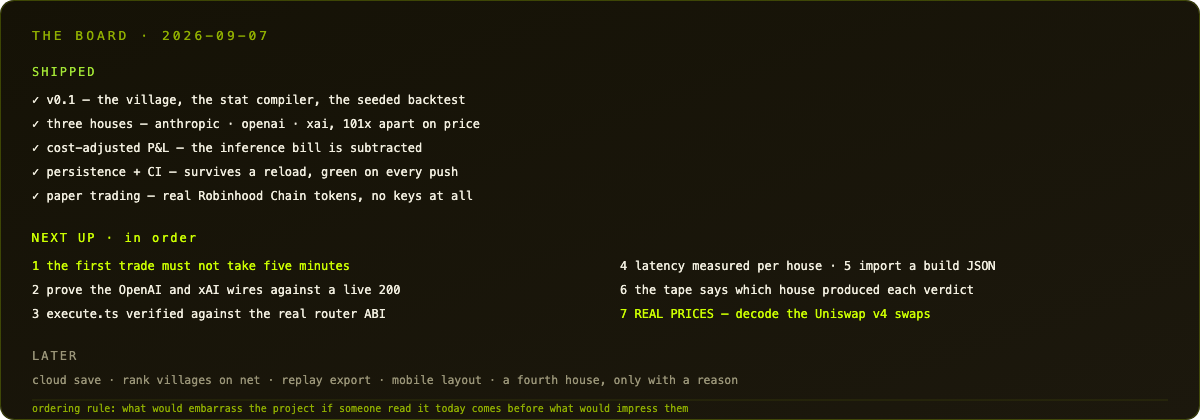
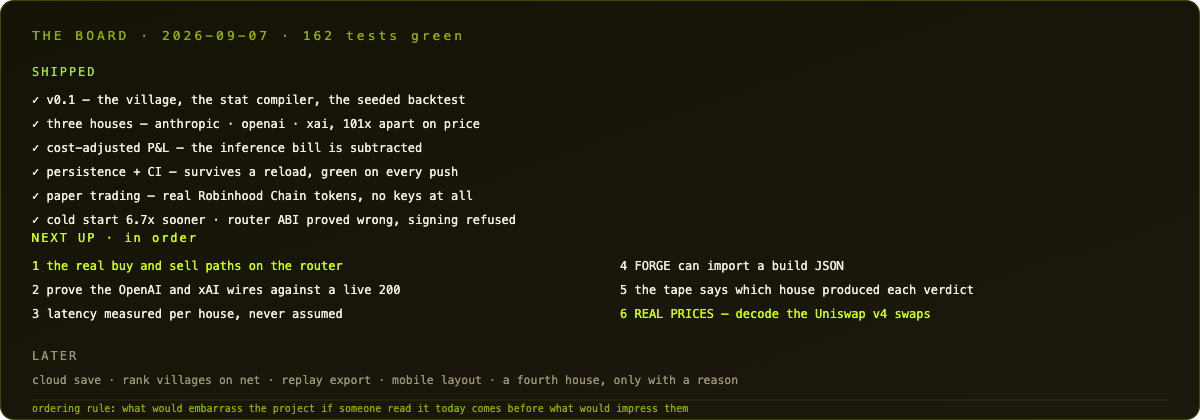
Roadmap: two items shipped, the real buy and sell paths take the top slot
Cold start and the selector gate move to Shipped with their measured numbers
(first decision 497 -> 74, first fill 515 -> 207). Next up is reordered: the
router preflight made execution safe but not working, so locating the real buy
argument order and the sell path is now item 1. Board graphic redrawn.

Claude-Session: https://claude.ai/code/session_01EpaaJaVzAeaf76b6Wv1oqW

diff --git a/ROADMAP.md b/ROADMAP.md
@@ -36,6 +36,38 @@ of tests (156 green), 1,082 lines of spec** — typechecked, tested and built by
 CI on every push. Three modes: seeded sim, **paper on real chain tokens**, and
 live.
 
+### 2026-09-07 · Cold start fixed, and a router ABI that was wrong all along — [`ca97ddd`](https://github.com/zostaff/agent-arena/commit/ca97ddd)
+
+**What changed.** Two roadmap items in one pass: a new agent now trades before
+it trains, and `execute.ts` refuses to sign any call whose selector is not in
+the deployed router's bytecode. 6 new tests.
+
+**For a post**
+
+* **The first trade came 6.7x sooner.** First decision moved from tick 497 to
+  **74**, first fill from 515 to **207** — measured, not estimated. An agent
+  used to start its life owing a training session, so a fresh village spent its
+  opening minutes doing chores while someone watched.
+* **Reading the deployed router found the ABI had been wrong from day one.**
+  `eth_getCode` on `0xe33e…2948` (4,416 bytes) does not contain the selector
+  for `buy(address,uint256,uint256)` — the signature pinned in the code since
+  the first commit. `DRY_RUN=0` would have reverted on the very first trade.
+  Nobody noticed because nothing had ever tried to send.
+* The router's real buy is **`buy(uint256,uint256,address)`** — a different
+  argument order — and no `sell` selector matches any plausible signature,
+  which fits Pons v2 settling through Uniswap v4 rather than through the
+  router.
+* **The fix is a refusal, not a guess.** One `eth_getCode` before signing; a
+  call whose selector cannot dispatch is refused. Guessing at argument order is
+  the single mistake here that costs real money, so a selector *match* does not
+  unlock anything either — the refusal stands until an order is confirmed
+  against a real trade. A miss, though, is proof.
+* `npm run chain` prints the gate in four lines: `pinned buy ABSENT — would
+  revert`, `pinned sell ABSENT`, `observed buy present (argument order
+  unconfirmed)`, `safe to send NO`.
+* **The honest limit:** this makes execution *safe*, not *working*. The real
+  buy path is still unwritten, and the sell path is still unknown.
+
 ### 2026-09-07 · Paper trading on real Robinhood Chain tokens — [`34e6ecc`](https://github.com/zostaff/agent-arena/commit/34e6ecc)
 
 **What changed.** A third mode. `npm run paper`, or the PAPER switch in the
@@ -210,24 +242,19 @@ stat bars on top, the config they compile to underneath.*
 
 ## Next up
 
-### 1. The first trade must not take five minutes
+### 2. The real buy and sell paths
 
-Found while screenshotting paper mode on 2026-09-07: at tick 178 the DEX still
-said *waiting for the first snapshot*. An agent starts in REST, walks to a
-building, and burns **260 ticks of training** before it ever scans. Someone who
-opens the page to watch bots trade sees a village doing chores.
+The selector preflight proved the pinned ABI cannot dispatch and now refuses to
+sign — safe, but not working. `buy(uint256,uint256,address)` exists on the
+router with an unconfirmed argument order, and no `sell` selector was found at
+all.
 
-This is the single worst thing about the product right now, and it is not a
-code-quality problem — it is a first-impression problem, which is why it sits
-above everything else.
+**Done means:** the argument order is confirmed from a real buy transaction's
+calldata on chain, the sell path is located (router, curve engine, or the v4
+PoolManager), both are pinned with the transaction hash that proved them, and
+the preflight goes green on its own rather than by being told to.
 
-**Done means:** an agent's first cycle is a decision, not a training session
-(`cyclesSinceTrain` starts satisfied), the opening speed is higher than 1x, and
-a fresh village shows a fill inside the first thirty seconds. None of that
-changes the economy — training still costs what it costs from the second cycle
-on.
-
-### 2. Prove the two new wires against a live 200
+### 3. Prove the two new wires against a live 200
 
 `providers.test.ts` drives OpenAI and xAI through fixtures. Neither has ever
 answered this code for real. Everything about the request shape is *inferred
@@ -237,16 +264,6 @@ precisely why degrade-once exists.
 **Done means:** one recorded dry-run session per house, the `onTrace` output
 pasted into `specs/04-live.md`, and any shape correction the real response
 forced. Until then the honest claim is "typed and tested", not "working".
-
-### 3. `execute.ts` verified against the real router ABI before anyone unsets `DRY_RUN`
-
-The dry-run path prints the exact call it would send. Nobody has checked that
-call against the deployed Pons router ABI on chain 4663. `DRY_RUN=0` is one
-environment variable away from being someone's real money.
-
-**Done means:** the ABI is read from chain, the encoded calldata for a known
-swap is asserted in a test, and the README says plainly which router address
-was verified and when.
 
 ### 4. Latency measured per house, never assumed
 
